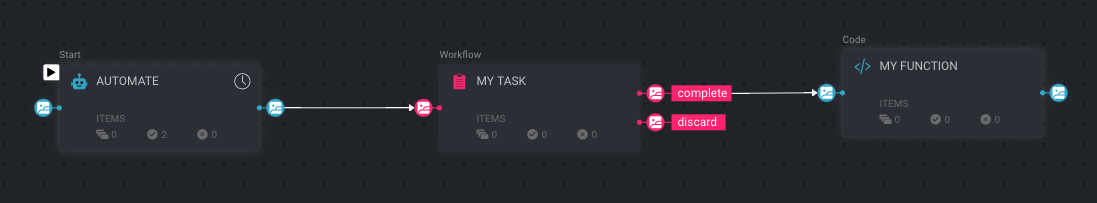
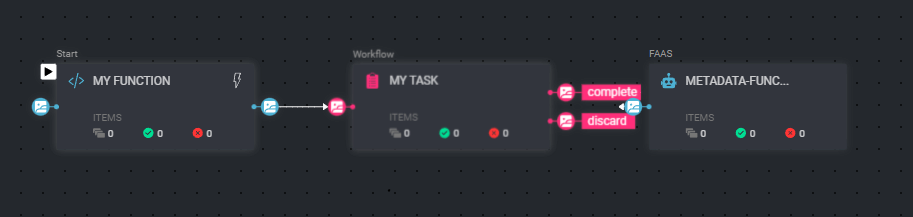
update pipeline example to use sdk

diff --git a/examples/pipelines/create_pipeline.py b/examples/pipelines/create_pipeline.py
@@ -25,14 +25,14 @@ def create_pipeline(project_name, dataset_name, service_name=None, function_name
         print('Using existing service name: {}'.format(service.name))
     else:
         service = project.services.deploy(func=metadata_function_second,
-                                          service_name='grayscale-item-service')
+                                          service_name='metadata-function-second')
         function_name = 'metadata_function_second'
         print('Service was created service_name:{}'.format(service.name))
     ##########################################
     # Generate pipeline with relevant params #
     ##########################################
     recipe = dataset.recipes.list()[0]
-    pipeline = project.pipelines.create(pipeline_name='pipeline-faas-example-dataset')
+    pipeline = project.pipelines.create(name='pipeline-faas-example-dataset')
 
     code_node = dl.CodeNode(
         name='My Function',
@@ -48,14 +48,14 @@ def create_pipeline(project_name, dataset_name, service_name=None, function_name
         recipe_title=recipe.title,
         task_owner='owner',
         workload=[dl.WorkloadUnit(assignee_id='assignee_id', load=100)],
-        position=(2, 2),
+        position=(2, 1),
         project_id=project.id,
         dataset_id=dataset.id,
     )
 
     function_node = dl.FunctionNode(
         name=service.name,
-        position=(3, 3),
+        position=(3, 1),
         service=service,
         function_name=function_name
     )
@@ -81,7 +81,6 @@ def create_pipeline(project_name, dataset_name, service_name=None, function_name
 
 
 if __name__ == "__main__":
-    dl.setenv('rc')
     project_name = 'My Project pipeline example'
     dataset_name = 'pipeline-faas-example-dataset'
     service_name = None  # or existing service name in the project

diff --git a/examples/pipelines/README.md b/examples/pipelines/README.md
@@ -26,10 +26,13 @@ service_name = 'existing-service-name'
 ## Pipeline
 
 Our pipeline will be consisted of the following components:  
-* A 'code-block' FaaS - that you can change its code from the UI.
-* '*automate*' FaaS - that will be triggered on any new item created in the dataset. 
-* A Task - will be generated upon the first item in the pipeline. 
+* A 'code-block' FaaS - that will be triggered on any new item created in the dataset (you can change its code from the UI).
+* A Task - will be created when the first item in the pipeline.
+* Service Function - run after item exists from the Task with a status.
 
-Once an item was created, the pipeline would trigger, the code block will be called with the item, it will set `item.metadata['user']['first'] = 'Hello''`, the item will assigned to your user, enter the task/assignment item, upon pressing 'Done' a complete event will be triggered, and the item will continue to the automate function that will add `item.metadata['user']['first'] = 'World''` and exit the pipeline.
+Once an item is uploaded, the pipeline will trigger, the code block will be called with the item, and it will set `item.metadata['user']['first'] = 'Hello'`.
+After the first node is finished, the item will be added to a task and will be assigned to your user.
+Enter the task/assignment item, and press 'Done' to continue with the pipeline.
+After status is set on the item, it will continue to the last function that will add `item.metadata['user']['second'] = 'World'` and exit the pipeline.
 
 ![Alt text](../../assets/pipeline_example.png)
